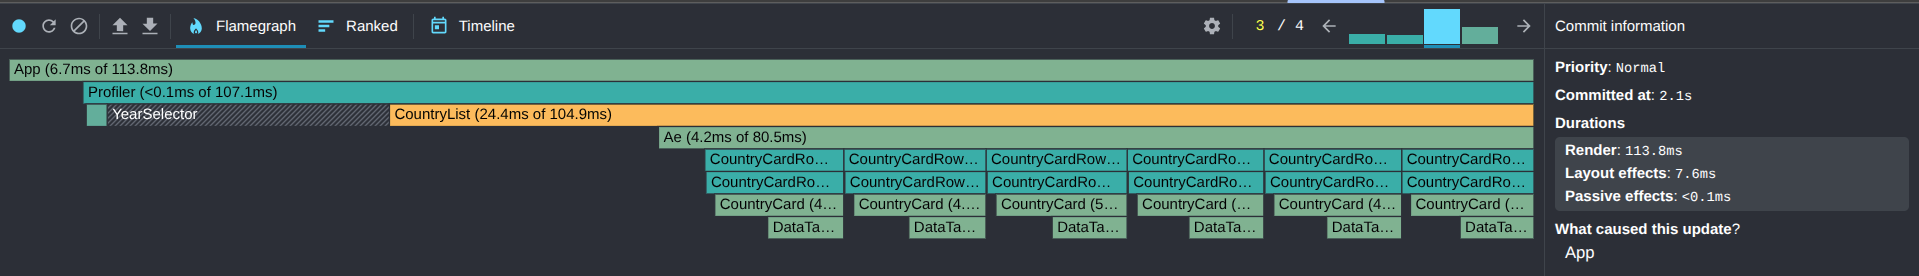
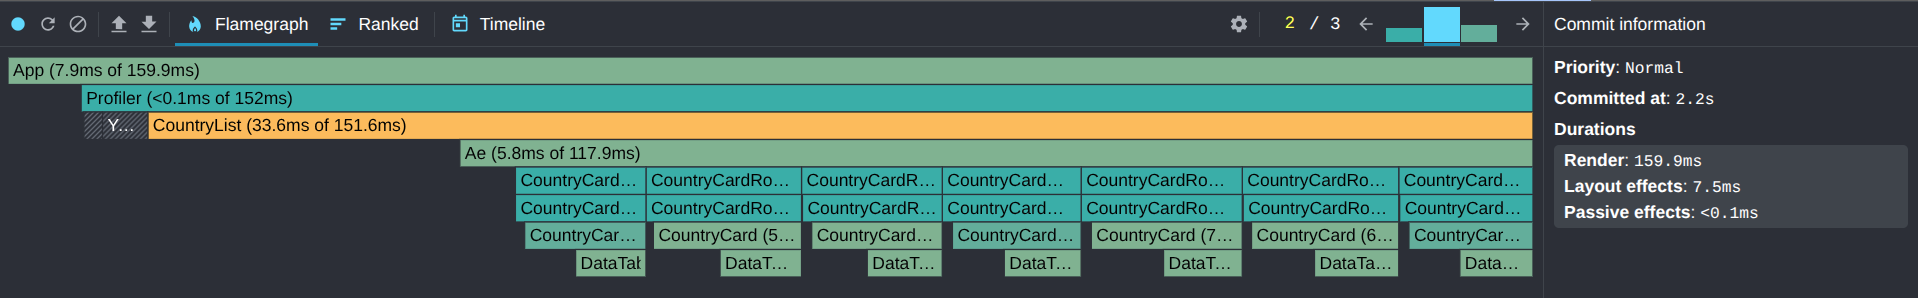
chore: update performance metrics and add new screenshots

Changed region(s): [[0.0, 0.058, 0.9228, 0.9565], [0.0, 0.0, 1.0, 0.058]]

diff --git a/PERFORMANCE.md b/PERFORMANCE.md
@@ -22,29 +22,29 @@ The baseline was measured using the built-in React `<Profiler>` component. Four 
 
 | Metric          | Before   | After    |
 | --------------- | -------- | -------- |
-| Render duration | 692.00ms | 107.10ms |
-| Commit duration | 694.00ms | 107.60ms |
+| Render duration | 692.00ms | 152.00ms |
+| Commit duration | 694.00ms | 160.80ms |
 
 #### 2. Year Select (2020 → 2024)
 
 | Metric          | Before   | After    |
 | --------------- | -------- | -------- |
-| Render duration | 753.00ms | 254.30ms |
-| Commit duration | 754.50ms | 255.80ms |
+| Render duration | 753.00ms | 280.90ms |
+| Commit duration | 754.50ms | 281.50ms |
 
 #### 3. Sort By Population (asc)
 
 | Metric          | Before   | After   |
 | --------------- | -------- | ------- |
-| Render duration | 701.90ms | 80.80ms |
-| Commit duration | 704.90ms | 81.40ms |
+| Render duration | 701.90ms | 95.80ms |
+| Commit duration | 704.90ms | 96.60ms |
 
 #### 4. Column Toggle (add "coal_co2")
 
 | Metric          | Before   | After    |
 | --------------- | -------- | -------- |
-| Render duration | 795.90ms | 116.50ms |
-| Commit duration | 798.30ms | 117.50ms |
+| Render duration | 795.90ms | 106.60ms |
+| Commit duration | 798.30ms | 107.40ms |
 
 ### Baseline Screenshots
 
@@ -108,8 +108,8 @@ The following optimizations were implemented on the `performance` branch:
 
 | Metric          | Value    |
 | --------------- | -------- |
-| Render duration | 107.10ms |
-| Commit duration | 107.60ms |
+| Render duration | 152.00ms |
+| Commit duration | 160.80ms |
 
 **Screenshot (after):** `performance/after/country_search.png`
 
@@ -117,8 +117,8 @@ The following optimizations were implemented on the `performance` branch:
 
 | Metric          | Value    |
 | --------------- | -------- |
-| Render duration | 254.30ms |
-| Commit duration | 255.80ms |
+| Render duration | 280.90ms |
+| Commit duration | 281.50ms |
 
 **Screenshot (after):** `performance/after/year_select.png`
 
@@ -126,8 +126,8 @@ The following optimizations were implemented on the `performance` branch:
 
 | Metric          | Value   |
 | --------------- | ------- |
-| Render duration | 80.80ms |
-| Commit duration | 81.40ms |
+| Render duration | 95.80ms |
+| Commit duration | 96.60ms |
 
 **Screenshot (after):** `performance/after/sort_by_population_asc.png`
 
@@ -135,19 +135,19 @@ The following optimizations were implemented on the `performance` branch:
 
 | Metric          | Value    |
 | --------------- | -------- |
-| Render duration | 116.50ms |
-| Commit duration | 117.50ms |
+| Render duration | 106.60ms |
+| Commit duration | 107.40ms |
 
 **Screenshot (after):** `performance/after/column_toggle.png`
 
 ### Comparison Summary
 
-| Interaction        | Before (render) | After (render) | Before (commit) | After (commit) | Improvement |
+| Interaction        | Render (before) | Render (after) | Commit (before) | Commit (after) | Improvement |
 | ------------------ | --------------- | -------------- | --------------- | -------------- | ----------- |
-| Country Search     | 692.00ms        | 107.10ms       | 694.00ms        | 107.60ms       | **~6.5×**   |
-| Year Select        | 753.00ms        | 254.30ms       | 754.50ms        | 255.80ms       | **~3.0×**   |
-| Sort By Population | 701.90ms        | 80.80ms        | 704.90ms        | 81.40ms        | **~8.7×**   |
-| Column Toggle      | 795.90ms        | 116.50ms       | 798.30ms        | 117.50ms       | **~6.8×**   |
+| Country Search     | 692.00ms        | 152.00ms       | 694.00ms        | 160.80ms       | **~78%**    |
+| Year Select        | 753.00ms        | 280.90ms       | 754.50ms        | 281.50ms       | **~63%**    |
+| Sort By Population | 701.90ms        | 95.80ms        | 704.90ms        | 96.60ms        | **~86%**    |
+| Column Toggle      | 795.90ms        | 106.60ms       | 798.30ms        | 107.40ms       | **~87%**    |
 
 ### Key Achievements
 
